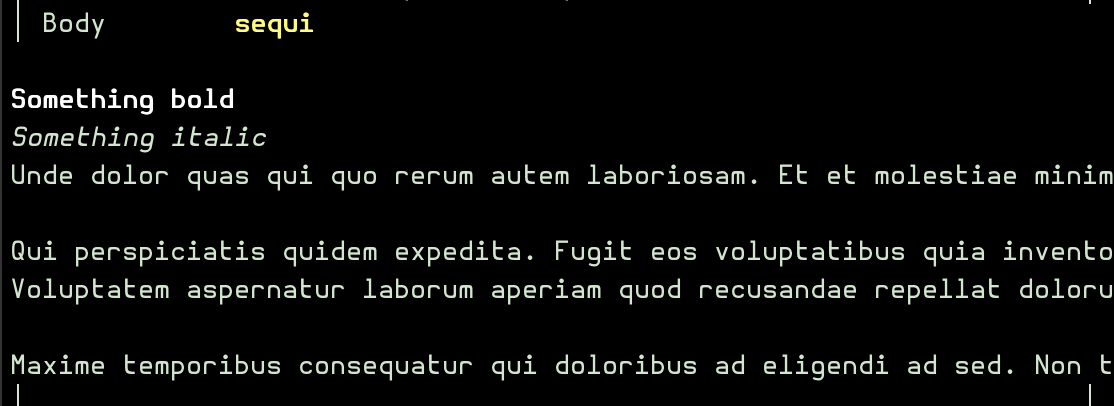
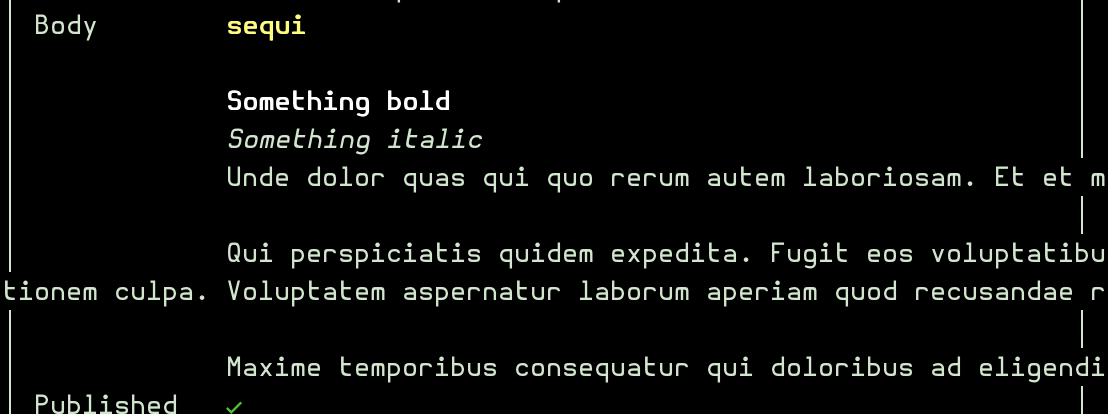
Update docs

diff --git a/docs/RELATIONSHIPS.md b/docs/RELATIONSHIPS.md
@@ -1,0 +1,79 @@
+# Relationships
+
+All relation types use the signature `Relation::make(string $label, string $resourceClass)` or `Relation::make(string $label, string $name, string $resourceClass)` where `$label` is the display name, `$name` is the optional relationship method name on the model, and `$resourceClass` is the related resource class. If `$name` is omitted, it will be automatically derived from the label.
+
+## Screenshots
+
+<a href="../img/relationships-screen.png"><img src="../img/relationships-screen.png" alt="Relationships screen" width="600" /></a>
+
+<a href="../img/belongs-to-relationships-in-detail-screen.png"><img src="../img/belongs-to-relationships-in-detail-screen.png" alt="BelongsTo relationships in detail screen" width="600" /></a>
+
+## Fillable (appear in create/edit forms)
+
+- `BelongsTo::make('User', UserResource::class)` or `BelongsTo::make('User', 'user', UserResource::class)` — Belongs to relationship
+  - `->displayField('name')` — Column used to display/search options
+  - `->required()` — Require a selection (default: optional with a "— None —" option)
+  - Uses inline search for large datasets
+
+- `MorphTo::make('Commentable', 'commentable', [PostResource::class])` — Polymorphic BelongsTo
+  - `->displayField('title')` — Column used to display/search options
+  - `->resources([…])` — Acceptable target resource classes
+  - `->required()` — Require a selection
+
+## Inline (displayed in the main detail box)
+
+- `HasOne::make('Profile', ProfileResource::class)` or `HasOne::make('Profile', 'profile', ProfileResource::class)` — Has one relationship
+  - Displayed inline in the detail view
+
+- `MorphOne::make('Profile', ProfileResource::class)` or `MorphOne::make('Profile', 'profile', ProfileResource::class)` — Polymorphic Has one relationship
+  - Displayed inline in the detail view
+
+## Tabular (displayed as paginated sub-tables below the main box)
+
+- `HasMany::make('Posts', PostResource::class)` or `HasMany::make('Posts', 'posts', PostResource::class)` — Has many relationship
+  - Displayed as a paginated sub-table in the detail view
+
+- `HasManyThrough::make('Posts', PostResource::class)` or `HasManyThrough::make('Posts', 'posts', PostResource::class)` — Has many through relationship
+  - Displayed as a paginated sub-table in the detail view
+
+- `BelongsToMany::make('Roles', RoleResource::class)` or `BelongsToMany::make('Roles', 'roles', RoleResource::class)` — Belongs to many relationship
+  - Displayed as a paginated sub-table in the detail view
+  - Pivot column can be accessed via `pivot.column_name` in `tableColumns()`
+
+- `MorphMany::make('Comments', CommentResource::class)` or `MorphMany::make('Comments', 'comments', CommentResource::class)` — Polymorphic Has many relationship
+  - Displayed as a paginated sub-table in the detail view
+
+- `MorphToMany::make('Tags', TagResource::class)` or `MorphToMany::make('Tags', 'tags', TagResource::class)` — Polymorphic many to many relationship
+  - Displayed as a paginated sub-table in the detail view
+  - Pivot column can be accessed via `pivot.column_name` in `tableColumns()`
+
+- `MorphedByMany::make('Teams', TeamResource::class)` or `MorphedByMany::make('Teams', 'teams', TeamResource::class)` — Inverse polymorphic many to many relationship
+  - Displayed as a paginated sub-table in the detail view
+
+## Relationship Columns in tableColumns()
+
+Use dot notation in `tableColumns()` to display columns from related models in the list view. Relationships are automatically eager-loaded so no N+1 queries occur.
+
+```php
+class PostResource extends Resource
+{
+    protected static string $model = \App\Models\Post::class;
+
+    public static function fields(): array
+    {
+        return [
+            Text::make('Title')->required(),
+            BelongsTo::make('User', 'user', UserResource::class)->displayField('name'),
+        ];
+    }
+
+    public static function tableColumns(): array
+    {
+        return ['id', 'title', 'user.name', 'user.email', 'created_at'];
+    }
+}
+```
+
+Column headers render with arrows: `user.name` becomes `User → Name`. Values are resolved through the Eloquent relationship at render time. Dot-notation columns are excluded from sorting since they can't be used in a simple `ORDER BY`.
+
+[← Back to README](../README.md)

diff --git a/docs/FIELDS.md b/docs/FIELDS.md
@@ -38,8 +38,6 @@ These methods are available on every field type:
 - `Textarea::make('Content')` or `Textarea::make('Content', 'content')` — Multi-line text input
   - `->markdown()` — Render content as Markdown in the detail view (requires `league/commonmark`)
 
-<a href="../img/markdown-in-detail-screen.png"><img src="../img/markdown-in-detail-screen.png" alt="Markdown in detail screen" width="600" /></a>
-
   - `->required()`, `->nullable()`, `->default()`, `->rules()`
 
 - `Json::make('Config')` or `Json::make('Config', 'config')` — JSON textarea input
@@ -47,55 +45,13 @@ These methods are available on every field type:
   - Validated as valid JSON on input
   - `->required()`, `->nullable()`, `->default()`, `->rules()`
 
+<a href="../img/markdown-in-detail-screen.png"><img src="../img/markdown-in-detail-screen.png" alt="Markdown in detail screen" width="600" /></a>
+
+<a href="../img/json-in-detail-screen.png"><img src="../img/json-in-detail-screen.png" alt="JSON in detail screen" width="600" /></a>
+
 ## Relations
 
-<a href="../img/relationships-screen.png"><img src="../img/relationships-screen.png" alt="Relationships screen" width="600" /></a>
-
-All relation types use the signature `Relation::make(string $label, string $resourceClass)` or `Relation::make(string $label, string $name, string $resourceClass)` where `$label` is the display name, `$name` is the optional relationship method name on the model, and `$resourceClass` is the related resource class. If `$name` is omitted, it will be automatically derived from the label.
-
-### Fillable (appear in create/edit forms)
-
-- `BelongsTo::make('User', UserResource::class)` or `BelongsTo::make('User', 'user', UserResource::class)` — Belongs to relationship
-  - `->displayField('name')` — Column used to display/search options
-  - `->required()` — Require a selection (default: optional with a "— None —" option)
-  - Uses inline search for large datasets
-
-<a href="../img/belongs-to-relationships-in-detail-screen.png"><img src="../img/belongs-to-relationships-in-detail-screen.png" alt="BelongsTo relationships in detail screen" width="600" /></a>
-
-- `MorphTo::make('Commentable', 'commentable', [PostResource::class])` — Polymorphic BelongsTo
-  - `->displayField('title')` — Column used to display/search options
-  - `->resources([…])` — Acceptable target resource classes
-  - `->required()` — Require a selection
-
-### Inline (displayed in the main detail box)
-
-- `HasOne::make('Profile', ProfileResource::class)` or `HasOne::make('Profile', 'profile', ProfileResource::class)` — Has one relationship
-  - Displayed inline in the detail view
-
-- `MorphOne::make('Profile', ProfileResource::class)` or `MorphOne::make('Profile', 'profile', ProfileResource::class)` — Polymorphic Has one relationship
-  - Displayed inline in the detail view
-
-### Tabular (displayed as paginated sub-tables below the main box)
-
-- `HasMany::make('Posts', PostResource::class)` or `HasMany::make('Posts', 'posts', PostResource::class)` — Has many relationship
-  - Displayed as a paginated sub-table in the detail view
-
-- `HasManyThrough::make('Posts', PostResource::class)` or `HasManyThrough::make('Posts', 'posts', PostResource::class)` — Has many through relationship
-  - Displayed as a paginated sub-table in the detail view
-
-- `BelongsToMany::make('Roles', RoleResource::class)` or `BelongsToMany::make('Roles', 'roles', RoleResource::class)` — Belongs to many relationship
-  - Displayed as a paginated sub-table in the detail view
-  - Pivot column can be accessed via `pivot.column_name` in `tableColumns()`
-
-- `MorphMany::make('Comments', CommentResource::class)` or `MorphMany::make('Comments', 'comments', CommentResource::class)` — Polymorphic Has many relationship
-  - Displayed as a paginated sub-table in the detail view
-
-- `MorphToMany::make('Tags', TagResource::class)` or `MorphToMany::make('Tags', 'tags', TagResource::class)` — Polymorphic many to many relationship
-  - Displayed as a paginated sub-table in the detail view
-  - Pivot column can be accessed via `pivot.column_name` in `tableColumns()`
-
-- `MorphedByMany::make('Teams', TeamResource::class)` or `MorphedByMany::make('Teams', 'teams', TeamResource::class)` — Inverse polymorphic many to many relationship
-  - Displayed as a paginated sub-table in the detail view
+See [RELATIONSHIPS.md](RELATIONSHIPS.md) for relation field types (BelongsTo, HasMany, MorphTo, etc.).
 
 ## Field Validation
 

diff --git a/docs/RESOURCES.md b/docs/RESOURCES.md
@@ -59,29 +59,7 @@ class UserResource extends Resource
 
 ### Relationship Columns
 
-Use dot notation in `tableColumns()` to display columns from related models in the list view. Relationships are automatically eager-loaded so no N+1 queries occur.
-
-```php
-class PostResource extends Resource
-{
-    protected static string $model = \App\Models\Post::class;
-
-    public static function fields(): array
-    {
-        return [
-            Text::make('Title')->required(),
-            BelongsTo::make('User', 'user', UserResource::class)->displayField('name'),
-        ];
-    }
-
-    public static function tableColumns(): array
-    {
-        return ['id', 'title', 'user.name', 'user.email', 'created_at'];
-    }
-}
-```
-
-Column headers render with arrows: `user.name` becomes `User → Name`. Values are resolved through the Eloquent relationship at render time. Dot-notation columns are excluded from sorting since they can't be used in a simple `ORDER BY`.
+Use dot notation in `tableColumns()` to display columns from related models in the list view. See [RELATIONSHIPS.md](RELATIONSHIPS.md) for details and examples.
 
 ### Soft Deletes
 

diff --git a/README.md b/README.md
@@ -95,7 +95,11 @@ See [docs/RESOURCES.md](docs/RESOURCES.md) for creating resources, the generated
 
 ## Fields
 
-See [docs/FIELDS.md](docs/FIELDS.md) for all field types, relations, and options.
+See [docs/FIELDS.md](docs/FIELDS.md) for all scalar field types and options.
+
+## Relationships
+
+See [docs/RELATIONSHIPS.md](docs/RELATIONSHIPS.md) for relation field types (BelongsTo, HasMany, MorphTo, etc.) and displaying relationship columns in the list view.
 
 ## Search
 